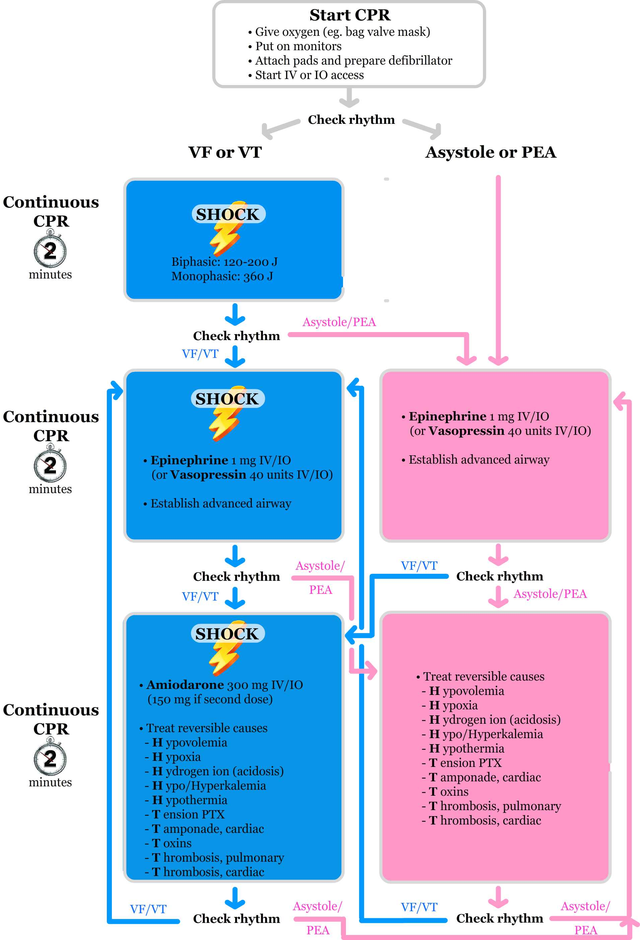
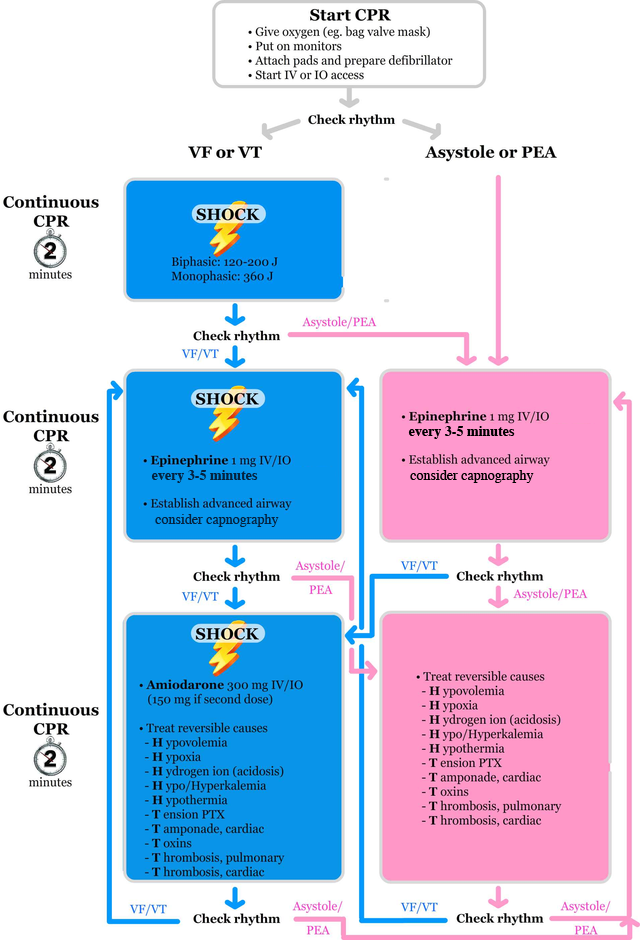
card updates, ACLS algorithm and image update

Changed region(s): [[0.25, 0.4936, 0.5312, 0.5553], [0.625, 0.4319, 0.9062, 0.4628], [0.6562, 0.4936, 0.8438, 0.5245]]

diff --git a/cards/acls/card.md b/cards/acls/card.md
@@ -1,44 +1,67 @@
 ---
 
-title: 'ACLS 2010 Algorithm for Cardiac Arrest'
+title: 'ACLS 2015 Algorithm for Cardiac Arrest'
 authors:
-    - 'Michelle Lin, MD'
+    - Michelle Lin, MD
+    - Jeremy Voros, MD
 created: 2011/12/16
-updates: null
+updates:
+    - 2017/02/24
 categories:
     - Cardiovascular
-    - 'Critical Care'
-drugs: epinephrine
+    - Critical Care
 
 ---
 
 
 
-# ACLS 2010 Algorithm for Cardiac Arrest
+# ACLS 2015 Algorithm for Cardiac Arrest
 
 ![](image-1.png)
 
-**Tips:**
+## Tips
 
 -   **2 minutes** of continuous, uninterrupted CPR is key before rechecking the rhythm.
 -   Think about giving <span class="drug">epinephrine</span> every **OTHER** time you check the rhythm. This puts it at roughly a q4 minute dosing (recommended q3-5 minutes).
 -   Don't delay CPR when you recognize a cardiac arrest. That means do this first, and then work on giving oxygen, placing the patient on various monitors, setting up the defibrillator, and establishing IV/IO access. Hence, the C-A-B mnemonic (Circulation before Airway)
--   Chest compressions should be "hard and fast" -- Depth of at least 2 inches and ≥ 100 compressions with a target pCO2 on the end-tidal capnography of ≥10 mm Hg.
+-   Chest compressions should be "hard and fast" -- Depth of at least 2 inches and ≥ 100 compressions with a target PCO<sub>2</sub> on the end-tidal capnography of ≥10 mm Hg.
 -   Use your mobile phone's timer to help alert you every time when 2 minutes is up.
 
-**Additional reversible causes** (not listed on ACLS AHA guidelines):
+## Additional reversible causes 
+**(not listed on ACLS AHA guidelines)**
 
 -   Hypoglycemia
 -   Trauma
 
+## Return of Spontaneous Circulation
+
+- Pulse and blood pressure
+- PETCO<sub>2</sub> abruptly sustained increase (typically &ge; 40 mm Hg)
+
+## Post-Cardiac Arrest Care
+
+**Ventillation & Oxygenation**: 
+- Start at 10 breaths per minute
+- Titrate to target PCO<sub>2</sub> 30-40 mm Hg
+- Titrate FIO<sub>2</sub> to minimum necessary to achieve SpO<sub>2</sub> &ge; 94%
+
+**Treat Hypotension**
+- IV/IO bolus: 1-2L normal saline or lactate 
+- Vasopressor infusion as needed:
+    - <span class="drug">Epinepherine IV</span> 0.1-0.5 mcg/kg per minute
+    - <span class="drug">Dopamine IV</span> 5-10 mcg/kg per minute
+    - <span class="drug">Norepihephrine IV</span> 0.1-0.5 mcg/kg per minute
+
+**Evaluate Need for Coronary Catheterization**
+- 12-Lead ECG STEMI or high suspicion of acute myocardial infarction? Proceed to coronary reperfusion.
+
+**Targeted Temperature Management**
+- If no meaningful response to verbal stimuli, maintain a constant temperature between 32°C and 36°C 
+
 ## Patwari Academy video tutorials
 
--   [ACLS: Airway](http://academiclifeinem.blogspot.com/2012/11/patwari-academy-videos-acls-and-airway.html)
--   [ACLS: Cardiac arrest](http://academiclifeinem.blogspot.com/2012/12/patwari-academy-videos-acls-parts-4-6.html)
--   [ACLS: Bradycardia and tachycardia](http://academiclifeinem.blogspot.com/2012/12/patwari-academy-videos-acls-parts-7-10.html)
-
-<!-- -->
+-   [ACLS: Airway](https://www.aliem.com/2012/patwari-academy-videos-acls-and-airway/)
 
 ## References
 
--   [Neumar RW, et al. Part 8: adult advanced cardiovascular life support: 2010 AHA Guidelines for CPR and Emergency Cardiovascular Care. Circulation. 2010 Nov 2;122(18 Suppl 3):S729-67.](https://www.ncbi.nlm.nih.gov/pubmed/?term=20956224)
+-   [Neumar RW, Shuster M, Callaway CW, et al. Part 1: Executive Summary: 2015 American Heart Association Guidelines Update for Cardiopulmonary Resuscitation and Emergency Cardiovascular Care. Circulation. 2015;132(18 Suppl 2):S315-67.](https://www.ncbi.nlm.nih.gov/pubmed/26472989)

diff --git a/cards/abg-interpretation/card.md b/cards/abg-interpretation/card.md
@@ -4,11 +4,11 @@ title: 'ABG Interpretation'
 authors:
     - 'Michelle Lin, MD'
 created: 2010/04/02
-updates: null
+updates:
+    - 2017/02/24
 categories:
-    - Pulmonology
-drugs: null
-
+    - Pulmonology   
+googlescholar: abg interpretation steps
 ---
 
 
@@ -36,13 +36,16 @@ eg. 7.50/ 29 / 80 / 22 (pH / PaCo2 / PaO2 / \[HCO3-\])
 
 **Differential**
 
-|                                                                                              |                        |
-|----------------------------------------------------------------------------------------------|------------------------|
-| Anxiety                                                                                      | Lung disease           |
-| CNS disease                                                                                  | Mechanical ventilation |
-| Drug use (aspirin, catecholamines, progesterone)                                             | Pregnancy              |
-| Hepatic encephalopathy                                                                       | Sepsis                 |
-| Hypoxia                                                                                      |                        |
+- Anxiety
+- Lung disease
+- CNS disease 
+- Mechanical ventilation
+- Drug use (aspirin, catecholamines, progesterone)
+- Pregnancy
+- Hepatic encephalopathy
+- Sepsis
+- Hypoxia
+
 
 ## Primary respiratory acidosis 
 
@@ -52,26 +55,28 @@ eg. 7.34 / 60 / 80 / 31 = **CHRONIC** because bicarbonate conensation
 
 **Differential**
 
-|                            |                                  |
-|----------------------------|----------------------------------|
-| Acute airway obstruction   | Severe pneumonia or pulm edema   |
-| CNS depression             | Thoracic cage injury-flail chest |
-| Impaired lung motion (PTX) | Ventilator dysfunction           |
-| Neuromuscular disorder     |                                  |
+- Acute airway obstruction
+- Severe pneumonia or pulm edema   |
+- CNS depression            
+- Thoracic cage injury-flail chest
+- Impaired lung motion (PTX)
+- Ventilator dysfunction          
+- Neuromuscular disorder                               
 
 ## Primary metabolic alkalosis
 
 eg. 7.50 / 48 / 80 / 36
 
 **Differential**
-
-|                      |                                   |
-|----------------------|-----------------------------------|
-| **Urine Cl = low**   | **Urine Cl = normal-high**        |
-| Diuretic use in past | Current diuretic use              |
-| NG suction           | Excess alkali administration      |
-| Post-hypercapnia     | Excess mineralocorticoid activity |
-|  Vomiting            |  Refeeding alkalosis              |
+-  **Urine Cl = low**   | **Urine Cl = normal-high**        |
+- Diuretic use in past 
+- Current diuretic use             
+- NG suction           
+- Excess alkali administration     
+- Post-hypercapnia     
+- Excess mineralocorticoid activity
+-  Vomiting            
+-  Refeeding alkalosis             
 
 ## Primary metabolic acidosis 
 

diff --git a/cards/acetaminophen-toxicity/card.md b/cards/acetaminophen-toxicity/card.md
@@ -8,7 +8,6 @@ updates: null
 categories:
     - Toxicology
     - Pharmacology
-drugs: acetaminophen
 
 ---
 
@@ -29,8 +28,8 @@ Note: Use for single time-point ingestion only. Does not predict toxicity in chr
 -   Metabolized through cytochrome P450 system to form toxic NAPQI metabolite, which requires glutathione to detoxify.
 -   Toxic ingestion dose = 150 mg/kg 
 
-**Clinical Stages of Acetaminophen Overdose
-**
+**Clinical Stages of Acetaminophen Overdose**
+
 -   **Stage 1** (&lt; 24 hr): Abd pain, N/V, anorexia, lethargy, diaphoresis; normal labs
 -   **Stage 2** (24-72 hr): RUQ abdominal pain, jaundice, rising AST/ALT/INR values 
 -   **Stage 3** (72-96 hr): Peak hepatotoxicity, renal insufficiency, and death vs. mild symptoms if treated
@@ -42,10 +41,10 @@ Note: Use for single time-point ingestion only. Does not predict toxicity in chr
 
 **Treatment:**
 
-Activated charcoal 
+<span class="drug">Activated charcoal</span>
 1.  Of benefit &lt; 1 hour of ingestion and possible benefit beyond 1 hour
 
-N-acetylcysteine (PO or IV) 
+<span class="drug">N-acetylcysteine</span> (PO or IV) 
 Start within 8-10 hours if:
 1.  Above “possible hepatic toxicity” line
 2.  Estimated single ingestion of acetaminophen &gt; 150 mg/kg
